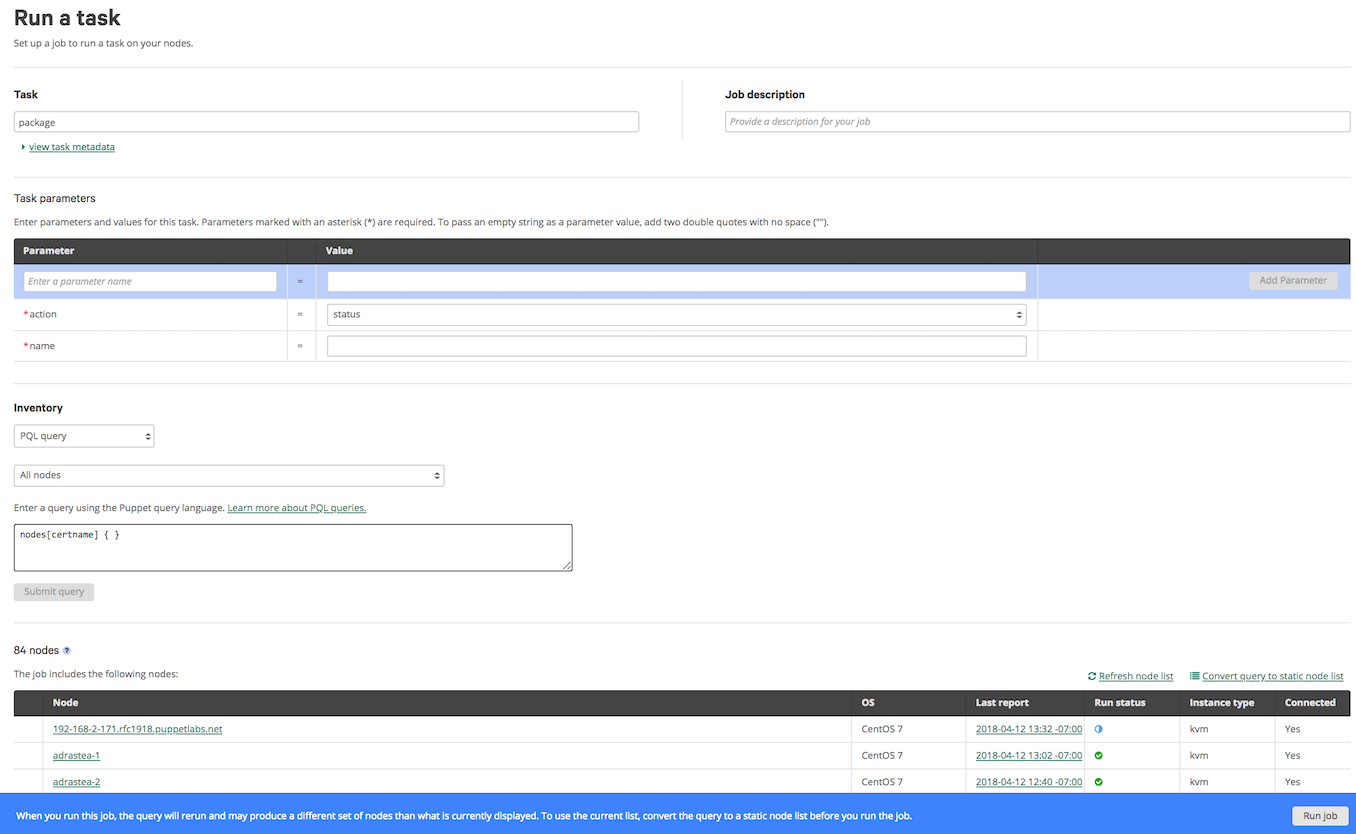
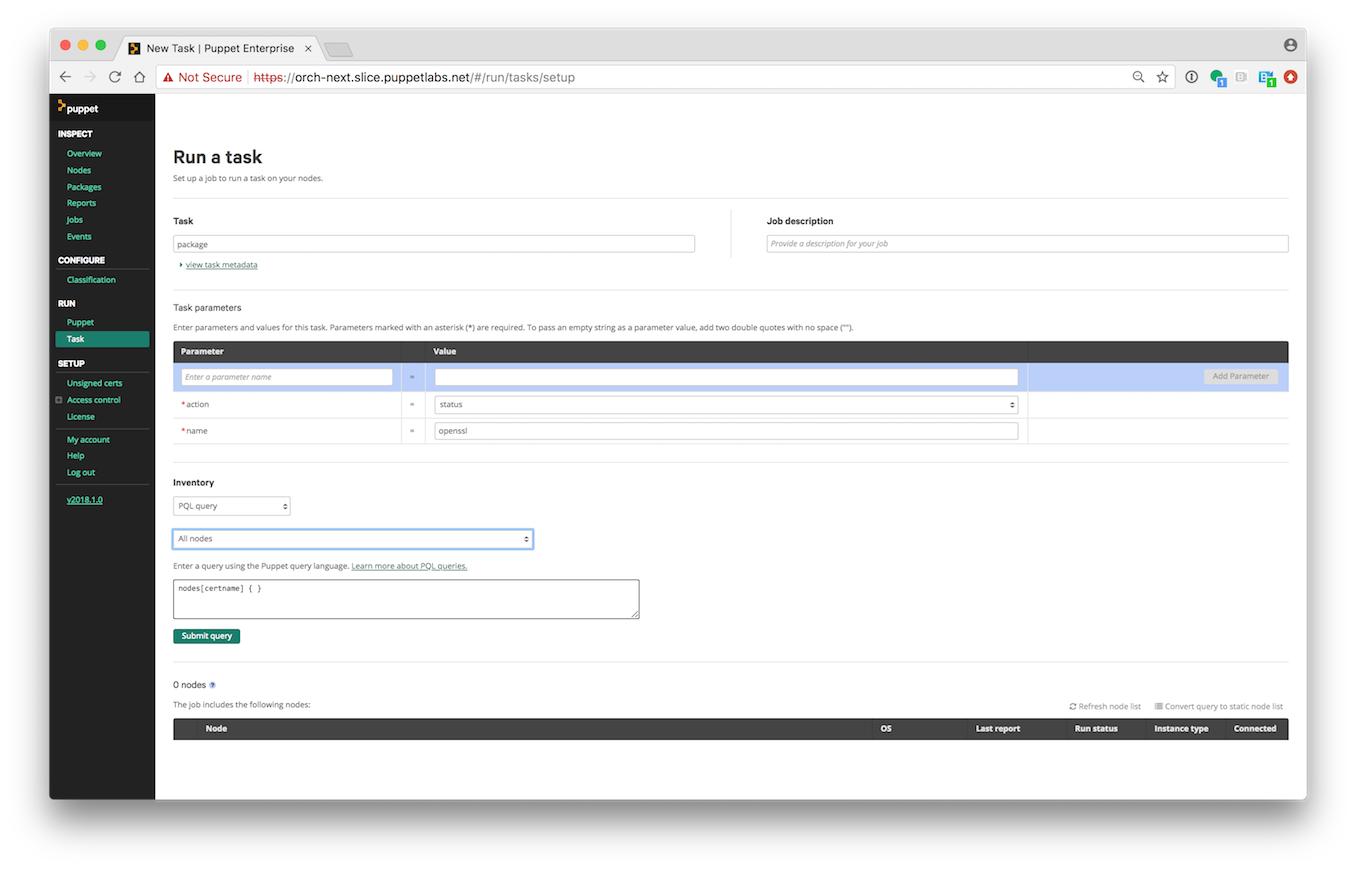
Take new screenshots at the correct zoom level and adjust content slightly

diff --git a/_lmscontent/orchestration_tasks/tasks/content.md b/_lmscontent/orchestration_tasks/tasks/content.md
@@ -57,13 +57,17 @@ On the other hand, maybe you don't want to click through the graphical interface
 to run tasks. Or maybe you'd like to invoke tasks as part of a script or a cron
 job. There is a way to do it without using the GUI.
 
-![puppet task transcript](cli_transcript.png)
-
 First make sure that [PE Client Tools](https://puppet.com/docs/pe/latest/installing/installing_pe_client_tools.html)
 have valid tokens to access the API. You want to see the usage instructions of the task you want to run, so first ask
 the Orchestrator. Note that if you don't specify the name of a task, it will list
 all of the installed tasks. In this case, I'll use `facter` as my example.
 
+    $ puppet access login
+    Enter your Puppet Enterprise credentials.
+    Username: ben.ford
+    Password:
+
+    Access token saved to: /home/ben.ford/.puppetlabs/token
     $ puppet task show facter
     
     facter - Inspect the value of system facts
